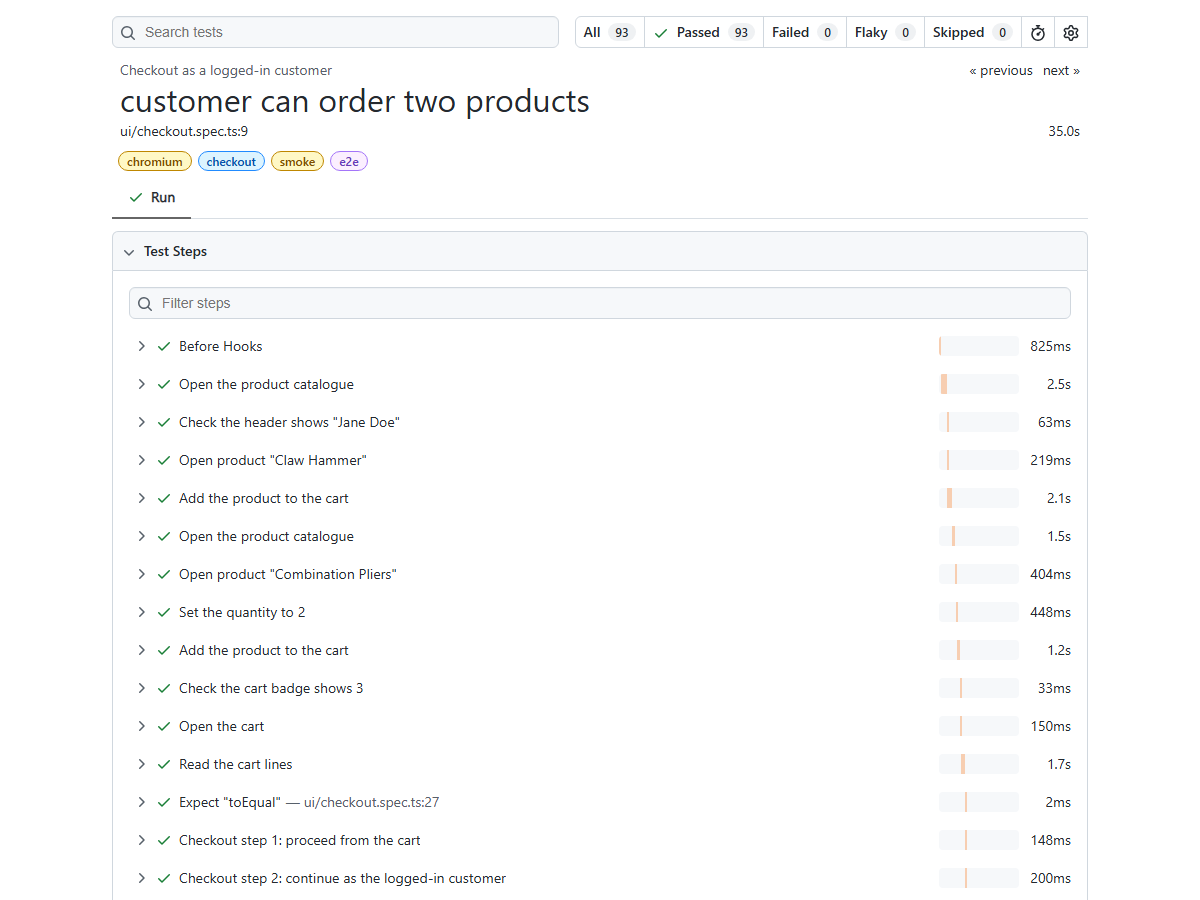
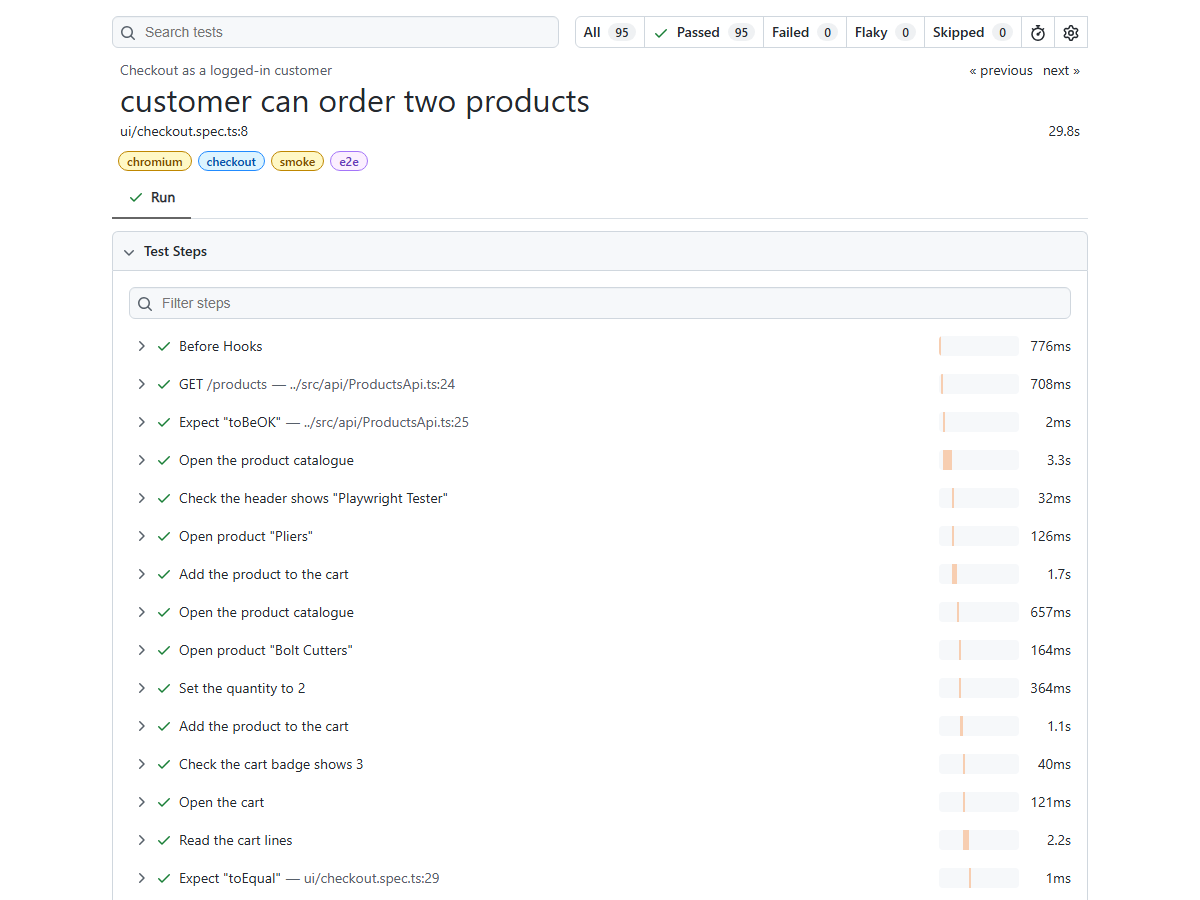
Update the README for own test data, add the MIT licence
New counts (47 tests, 95 runs), no credentials to configure, the
'own test data' design decision with the three changes seen on the
shared demo, re-captured report screenshots.

diff --git a/README.md b/README.md
@@ -6,7 +6,7 @@ UI and API test automation for the [Practice Software Testing Toolshop](https://
 a demo web shop built for testers (Angular front end + REST API), written with
 [Playwright Test](https://playwright.dev) and TypeScript.
 
-**45 tests, 93 test runs per full run:** 21 API tests, plus 24 UI tests on Chromium, Firefox and WebKit.
+**47 tests, 95 test runs per full run:** 23 API tests, plus 24 UI tests on Chromium, Firefox and WebKit.
 
 | Area           | What is tested                                                                                           |
 | -------------- | -------------------------------------------------------------------------------------------------------- |
@@ -15,7 +15,7 @@ a demo web shop built for testers (Angular front end + REST API), written with
 | Product (UI)   | card vs. detail page, quantity, add to cart                                                              |
 | Checkout (UI)  | full order of two products (invoice number), cart maths, guest sign-in step, cart filled through the API |
 | Network (UI)   | mocked product list, empty list, 500 error; the requests the front end sends                             |
-| Auth (API)     | JWT login, `/users/me`, wrong password, missing and forged token                                         |
+| Auth (API) | registration, duplicate e-mail (409), JWT login, `/users/me`, wrong password, missing and forged token |
 | Products (API) | paging contract, no overlap between pages, by id, 404, search, sort, category filter                     |
 | Carts (API)    | create, add, change quantity, remove, 422 validation errors, the "one Thor Hammer" business rule, 404    |
 
@@ -59,23 +59,24 @@ API or UI is chosen with `--project` (`api`, `chromium`, `firefox`, `webkit`), n
 All settings are in [`src/config/env.ts`](src/config/env.ts), with defaults for the public demo.
 Override them with environment variables or a local `.env` file (copy [`.env.example`](.env.example)):
 
-| Variable                               | Default                                   |
-| -------------------------------------- | ----------------------------------------- |
-| `BASE_URL`                             | `https://practicesoftwaretesting.com`     |
-| `API_URL`                              | `https://api.practicesoftwaretesting.com` |
-| `CUSTOMER_EMAIL` / `CUSTOMER_PASSWORD` | the demo's published customer account     |
+| Variable   | Default                                   |
+| ---------- | ----------------------------------------- |
+| `BASE_URL` | `https://practicesoftwaretesting.com`     |
+| `API_URL`  | `https://api.practicesoftwaretesting.com` |
+
+No credentials to configure: every test worker registers its own customer through the API (see "Own test data" below).
 
 ## Project structure
 
 ```
 src/
-  config/env.ts            settings + test users (env vars, .env, defaults)
+  config/env.ts            settings (env vars, .env, defaults)
   pages/                   page objects: BasePage, HomePage, ProductPage, LoginPage, AccountPage, CheckoutPage
   components/              HeaderComponent (shared by every page: user menu, cart badge)
   api/                     AuthApi, ProductsApi, CartsApi (service objects) + schemas.ts (zod contracts)
-  fixtures/test.ts         the extended `test`: page objects, API clients, loggedInAs option
-  data/                    test data builders (mocked products, billing address)
-  utils/                   money (exact cents), sorting check
+  fixtures/test.ts         the extended `test`: page objects, API clients, testUser, loggedIn option
+  data/                    test data builders (new users, mocked products, billing address)
+  utils/                   step decorator, bot-check skip, money (exact cents), sorting check
 tests/
   api/                     *.api.spec.ts: no browser
   ui/                      *.spec.ts: run once per browser project
@@ -102,7 +103,7 @@ Passwords never go into a step title.
 what it needs (`async ({ homePage, cartsApi }) => ...`) and gets fresh objects for its own page. Fixtures are lazy, so an
 API test never starts a browser.
 
-**Login through the API, per test.** `test.use({ loggedInAs: 'customer' })` logs in with one API call and puts the JWT
+**Login through the API, per test.** `test.use({ loggedIn: true })` logs in with one API call and puts the JWT
 into `localStorage` before the page loads (`page.addInitScript`). It skips the login form (covered by its own tests) and
 gives every test a fresh token. A login saved once per run (`storageState`) was not an option: the shop's tokens expire
 after 5 minutes.
@@ -120,10 +121,18 @@ an empty list and a server error, and `waitForRequest` / `waitForResponse` to ch
 come from typed builders and pass through the real schema, so they cannot drift from the real API. One finding: the
 front end sends list filters in the body of an HTTP `QUERY` request, not in the URL.
 
-**A shared, live demo.** Other people use the same shop at the same time; during the build someone's tests added a
-product to the "Hammer" category. Tests therefore don't hard-code counts that others can change: the catalogue tests ask
-the API what to expect at run time, API tests create their own cart, and CI retries twice to tell a real failure from a
-network hiccup.
+**Own test data on a shared, live demo.** Other people use the same shop at the same time, and during the build the data
+changed under the tests three times: someone's tests added a product to the "Hammer" category, someone changed the name
+and password of the demo's published customer account, and this suite's own orders used up the stock of a product.
+So the tests own or look up everything they depend on:
+
+- **Users:** the `testUser` worker fixture registers a fresh customer through the API (unique `@example.com` address,
+  random password), one per worker process. Nobody else can change it.
+- **Products:** tests that buy something pick products that are in stock right now (`findInStockOnFirstPage()`).
+- **Counts:** the catalogue tests ask the API what to expect at run time instead of hard-coding numbers.
+- **Carts:** every API cart test creates its own cart.
+
+CI also retries twice, to tell a real failure from a network hiccup.
 
 **No fixed waits.** No `waitForTimeout` anywhere (an ESLint rule enforces it). Web-first assertions retry on their own,
 and where a list re-renders, `expect.poll()` re-reads it until it is right, e.g. the sort tests.
@@ -136,8 +145,8 @@ every test and throwing it away on success made each test about 25 seconds slowe
 
 ## Reports
 
-Playwright's HTML report (`npm run report`, or the `playwright-report` artifact of a CI run). A full local run, 93 of
-93 passed, API first:
+Playwright's HTML report (`npm run report`, or the `playwright-report` artifact of a CI run). A full local run, 95 of
+95 passed, API first:
 
 ![HTML report overview](docs/images/report-overview.png)
 
